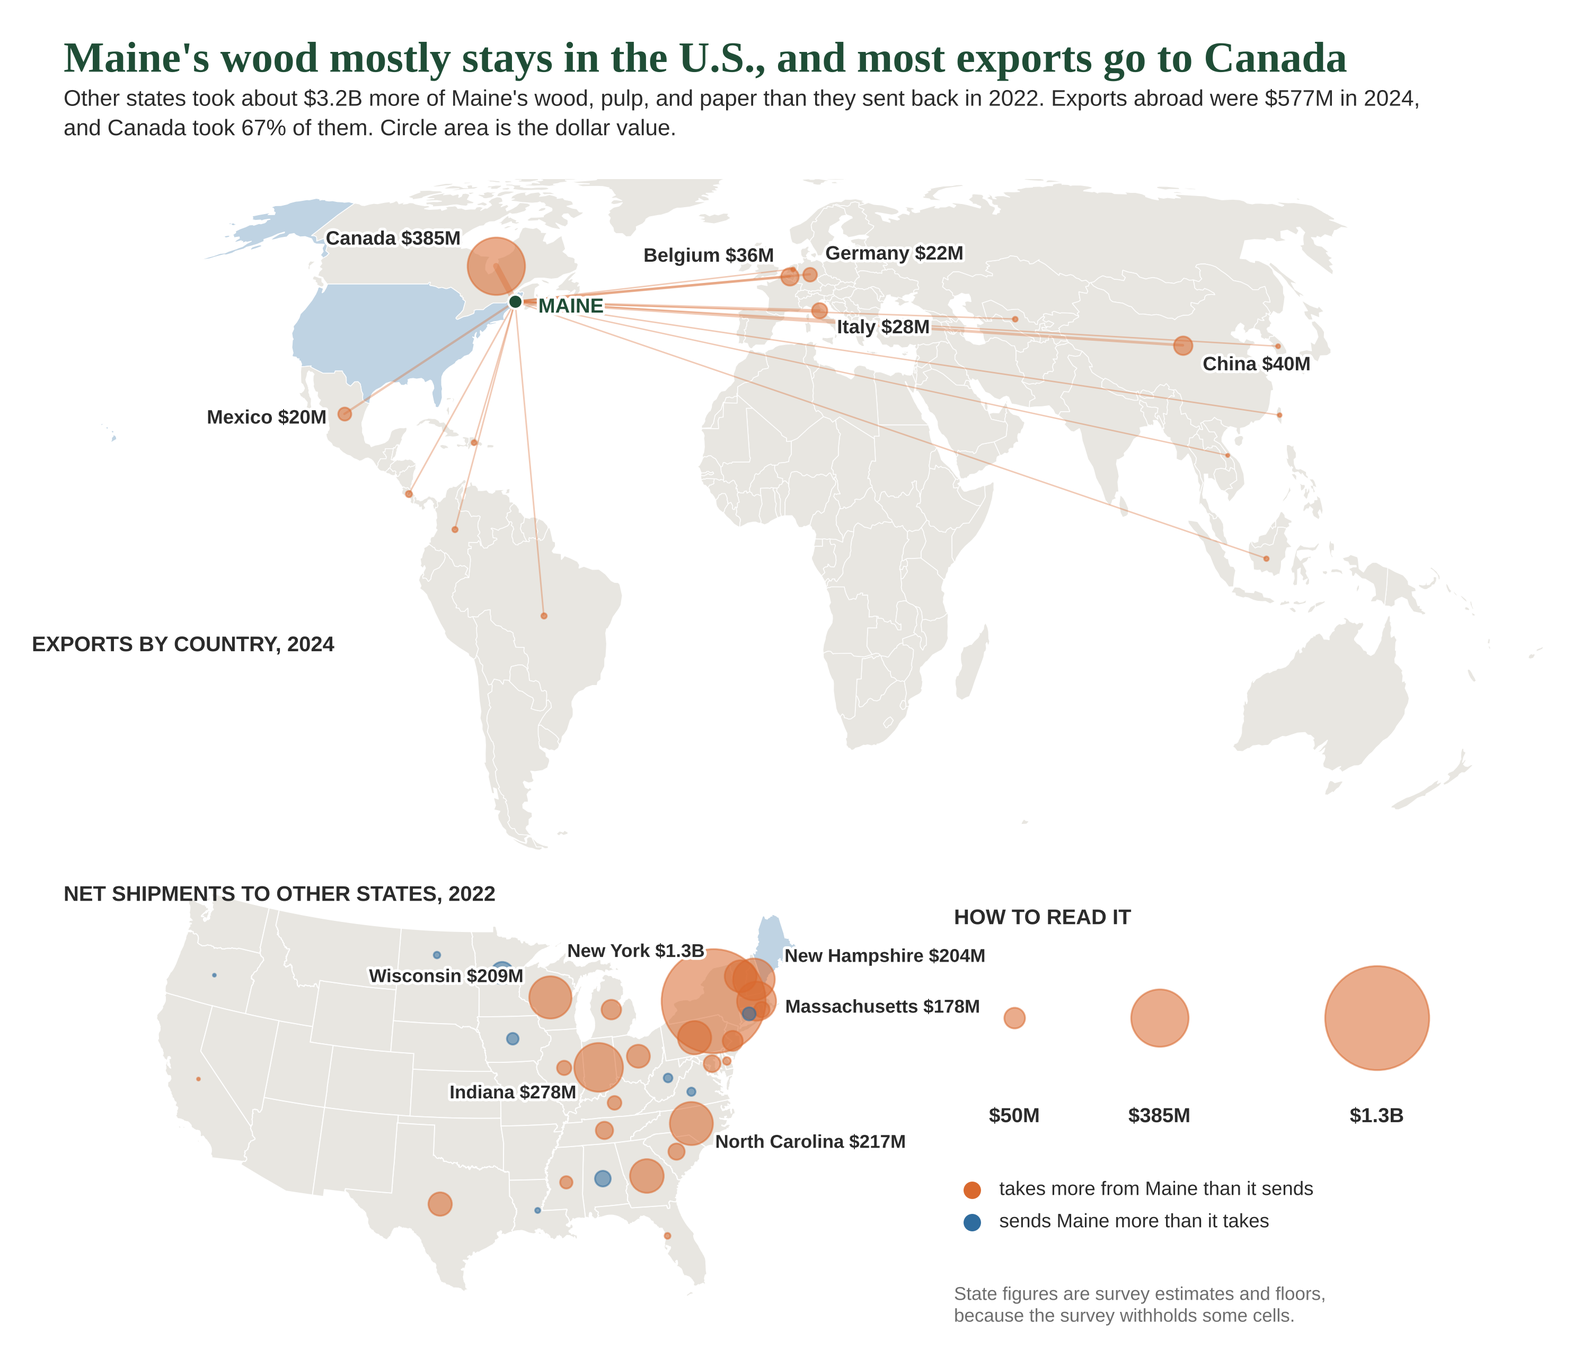
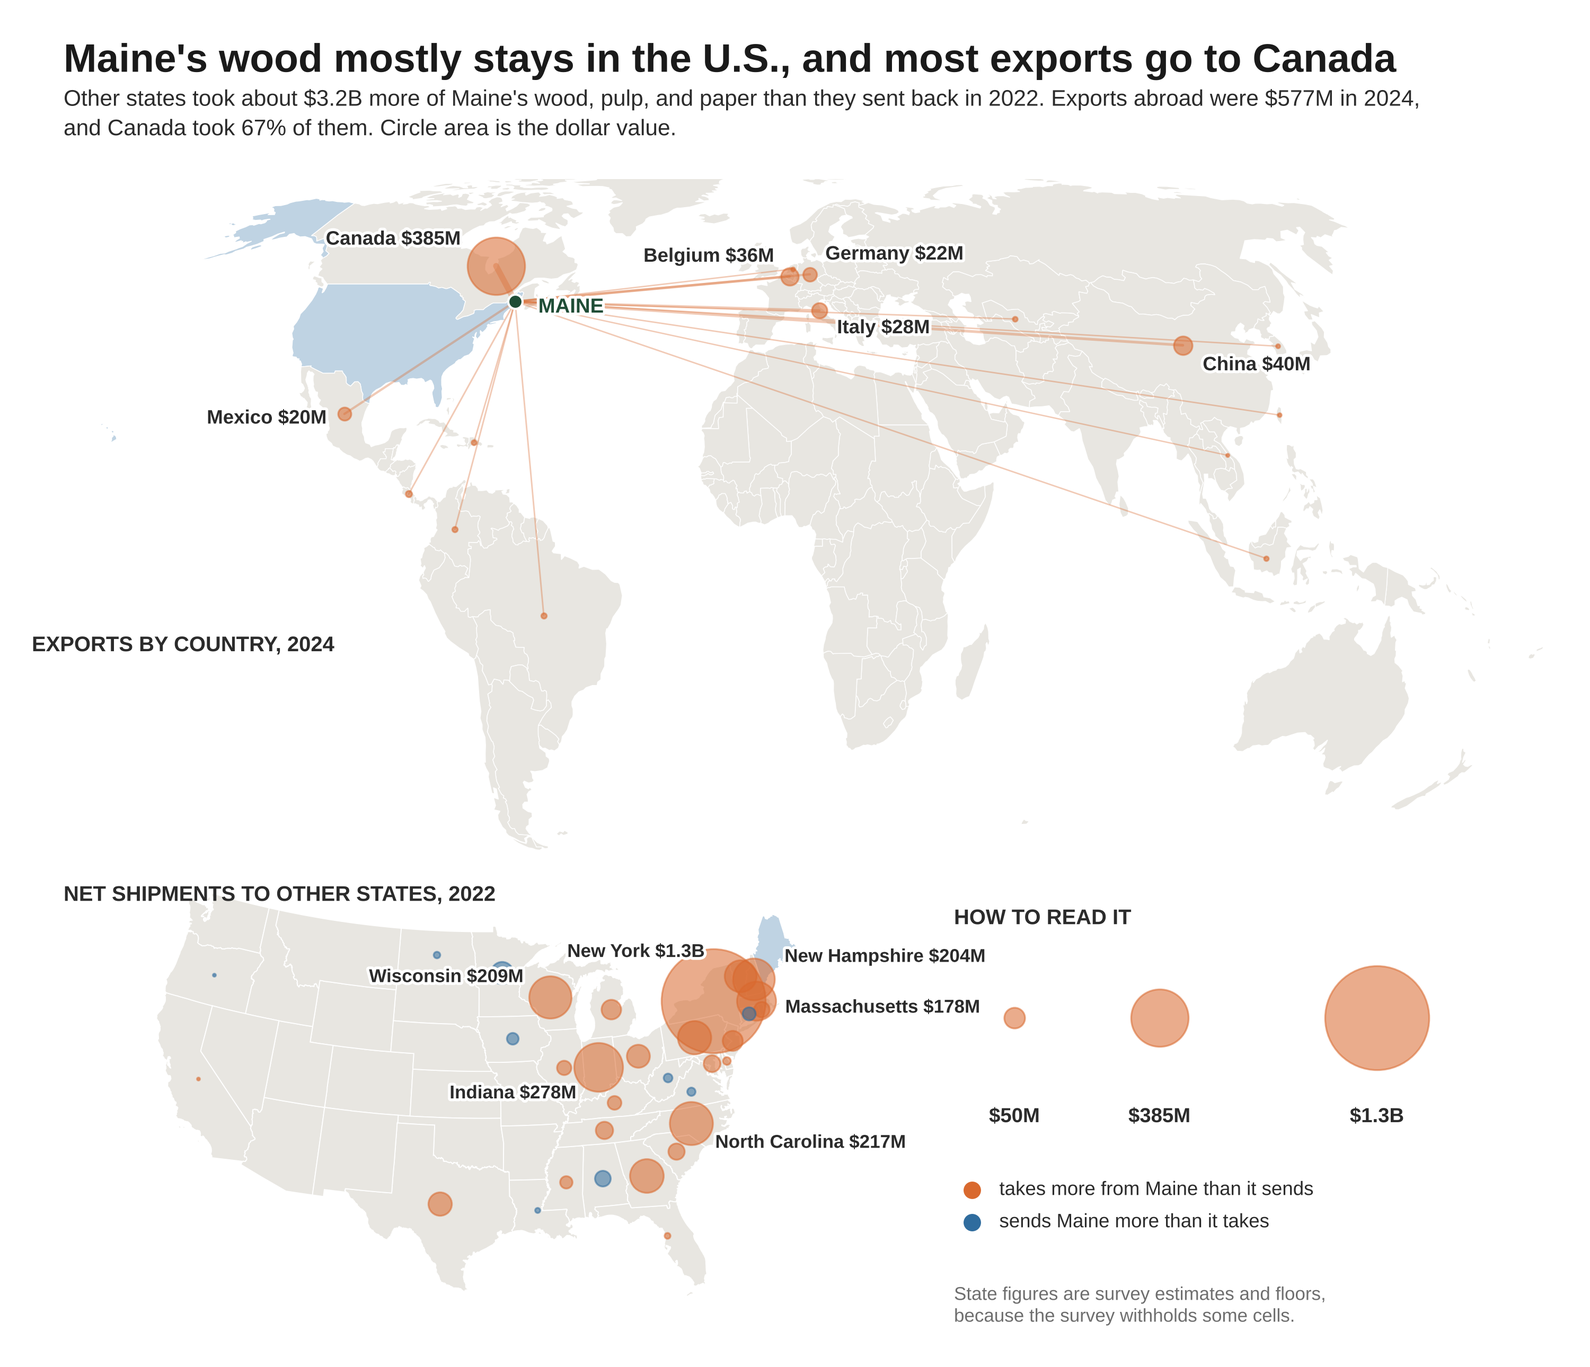
Figures restyled with a shared sans headline; leakage map in Equal Earth with pulp trade arrows scaled by tonnage
Claude-Session: https://claude.ai/code/session_013WsDVoeaXCGmdbNt2QvfhH

Changed region(s): [[0.031, 0.031, 0.899, 0.062]]

diff --git a/wood-travels/2026-11-12_follow-the-wood-leakage-map_DRAFT.py b/wood-travels/2026-11-12_follow-the-wood-leakage-map_DRAFT.py
@@ -1,9 +1,12 @@
-# Follow the wood with a leakage layer, rebuilt November 12, 2026, in Python.
+# Follow the wood with a leakage layer. Rebuilt November 12, 2026 (second pass: Equal Earth projection so
+# shapes are not stretched, pulp trade arrows scaled by tonnage, sans headline to match The Conversation's charts).
 # Shading: colors read from figure 2a of Daigneault et al. 2025 (Environ. Res. Lett. 20:114022, CC BY 4.0;
 # `2025_daigneault-erl-fig2a-leakage-layer_DATA.png`) and assigned to each Global Timber Model region and forest
 # type code on Adam Daigneault's 0.5 degree forest type grid (not in this repository; pass its CSV with X, Y, code).
-# Each code takes the most common figure color among its cells, so the shading is the published figure redrawn
-# on the model's own grid. No leakage value is computed here.
+# Each code takes the most common figure color among its cells. No leakage value is computed here.
+# Pulp arrows: UN Comtrade, U.S.-reported trade, 2024. Imports are bleached kraft pulp (HS 470321 softwood and
+# 470329 hardwood): Brazil 0.266 + 2.024 = 2.29 million metric tons, Canada 1.729 + 0.110 = 1.84 million.
+# Exports are all kraft pulp (HS 4703): 0.08 million to Brazil, 0.50 million to Canada.
 # Routes are schematic. Usage: python3 <script> <node_modules dir> <grid.csv> <out.png>
 import csv, json, sys, os, math, collections
 import numpy as np
@@ -11,6 +14,7 @@ import matplotlib
 matplotlib.use("Agg")
 import matplotlib.pyplot as plt
 from matplotlib.patches import PathPatch, FancyArrowPatch
+from matplotlib.collections import PolyCollection
 from matplotlib.path import Path
 import matplotlib.patheffects as pe
 from PIL import Image
@@ -18,8 +22,18 @@ from PIL import Image
 HERE = os.path.dirname(os.path.abspath(__file__))
 ATLAS, GRID, OUT = sys.argv[1], sys.argv[2], sys.argv[3]
 plt.rcParams["font.family"] = "Liberation Sans"
-GRN, NAV, LAND, SEA, INK, GRY = "#1F4D36", "#12355B", "#E8E6E1", "#F4F8FB", "#2B2B2B", "#6E6E6E"
-X0, X1, Y0, Y1 = -100.0, -30.0, -38.0, 54.0
+plt.rcParams["mathtext.fontset"] = "custom"; plt.rcParams["mathtext.bf"] = "Liberation Sans:bold"; plt.rcParams["mathtext.rm"] = "Liberation Sans"
+GRN, NAV, LAND, SEA, INK, GRY = "#1F4D36", "#12355B", "#E8E6E1", "#F4F8FB", "#1A1A1A", "#5F6B65"
+LON0 = -72.0
+LX0, LX1, LY0, LY1 = -124.0, -27.0, -35.0, 53.5          # frame in degrees
+
+
+def ee(lon, lat):
+    A1, A2, A3, A4 = 1.340264, -0.081106, 0.000893, 0.003796
+    lon, lat = np.asarray(lon, float), np.asarray(lat, float)
+    th = np.arcsin(math.sqrt(3) / 2 * np.sin(np.radians(lat)))
+    x = 2 * math.sqrt(3) * np.radians(lon - LON0) * np.cos(th) / (3 * (9 * A4 * th**8 + 7 * A3 * th**6 + 3 * A2 * th**2 + A1))
+    return x, A4 * th**9 + A3 * th**7 + A2 * th**3 + A1 * th
 
 
 def topo(path, obj):
@@ -44,97 +58,112 @@ def topo(path, obj):
     return res
 
 
-def add_poly(ax, rings, **kw):
+def near(r):
+    return not (r[:, 0].max() < LX0 - 25 or r[:, 0].min() > LX1 + 12 or r[:, 1].max() < LY0 - 8 or r[:, 1].min() > LY1 + 12
+                or r[:, 0].max() - r[:, 0].min() > 300)
+
+
+def path_of(rings):
     verts, codes = [], []
     for r in rings:
-        if r[:, 0].max() < X0 - 5 or r[:, 0].min() > X1 + 5 or r[:, 1].max() < Y0 - 5 or r[:, 1].min() > Y1 + 5 or r[:, 0].max() - r[:, 0].min() > 300:
+        if not near(r):
             continue
-        verts += list(map(tuple, r))
-        codes += [Path.MOVETO] + [Path.LINETO] * (len(r) - 2) + [Path.CLOSEPOLY]
-    if verts:
-        ax.add_patch(PathPatch(Path(verts, codes), **kw))
+        x, y = ee(r[:, 0], r[:, 1])
+        verts += list(zip(x, y)); codes += [Path.MOVETO] + [Path.LINETO] * (len(r) - 2) + [Path.CLOSEPOLY]
+    return Path(verts, codes) if verts else None
 
 
 # ---- leakage colors by forest type code ----
 lay = np.array(Image.open(os.path.join(HERE, "2025_daigneault-erl-fig2a-leakage-layer_DATA.png")).convert("RGB")).astype(int)
-SC, LX0 = 3.745, -177.5
-LYMX = 314.7 / SC
+SC, FX0 = 3.745, -177.5
+FYMX = 314.7 / SC
 rows = [(float(r["X"]), float(r["Y"]), int(r["code"])) for r in csv.DictReader(open(GRID))]
 votes = collections.defaultdict(collections.Counter)
-hit = 0
 for x, y, c in rows:
-    px, py = int(round((x - LX0) * SC)), int(round((LYMX - y) * SC))
+    px, py = int(round((x - FX0) * SC)), int(round((FYMX - y) * SC))
     if 0 <= px < lay.shape[1] and 0 <= py < lay.shape[0]:
         r, g, b = lay[py, px]
         if max(r, g, b) - min(r, g, b) > 95 and r > 190:      # a leakage color, not gray land, white sea or text
             votes[c][(r // 8 * 8, g // 8 * 8, b // 8 * 8)] += 1
-            hit += 1
-colr = {c: np.array(v.most_common(1)[0][0]) / 255.0 for c, v in votes.items() if sum(v.values()) >= 3}
-print("cells", len(rows), "with a figure color", hit, "codes colored", len(colr))
-
-dx = 0.499306
-nx, ny = int(round((X1 - X0) / dx)) + 2, int(round((Y1 - Y0) / dx)) + 2
-img = np.zeros((ny, nx, 4))
+def pick(v):
+    """Most saturated color among those holding at least 15% of a code's cells (drops blended edge pixels)."""
+    n = sum(v.values())
+    cand = [k for k, m in v.items() if m >= 0.15 * n] or [v.most_common(1)[0][0]]
+    return max(cand, key=lambda k: (max(k) - min(k), v[k]))
+colr = {c: np.array(pick(v)) / 255.0 for c, v in votes.items() if sum(v.values()) >= 3}
+d = 0.499306 / 2
+polys, cols = [], []
 for x, y, c in rows:
-    if c in colr and X0 - dx <= x <= X1 + dx and Y0 - dx <= y <= Y1 + dx:
-        i, j = int(round((x - X0) / dx)), int(round((Y1 - y) / dx))
-        if 0 <= i < nx and 0 <= j < ny:
-            img[j, i, :3] = colr[c]; img[j, i, 3] = 1
+    if c in colr and LX0 - 20 <= x <= LX1 + 8 and LY0 - 6 <= y <= LY1 + 8:
+        px, py = ee([x - d, x + d, x + d, x - d], [y - d, y - d, y + d, y + d])
+        polys.append(list(zip(px, py))); cols.append(colr[c])
+print("cells drawn", len(polys), "codes colored", len(colr))
 
-fig = plt.figure(figsize=(10, 10.2), dpi=300)
-ax = fig.add_axes([0.03, 0.02, 0.94, 0.855])
-ax.set_xlim(X0, X1); ax.set_ylim(Y0, Y1); ax.set_aspect(1.0); ax.set_axis_off()
-ax.add_patch(plt.Rectangle((X0, Y0), X1 - X0, Y1 - Y0, facecolor=SEA, edgecolor="none", zorder=0))
+x0, _ = ee(LX0, 10); x1, _ = ee(LX1, 10); _, y0 = ee(LON0, LY0); _, y1 = ee(LON0, LY1)
+W = 10.0; axw = 0.94; axh_in = W * axw * (y1 - y0) / (x1 - x0); H = axh_in + 1.5
+fig = plt.figure(figsize=(W, H), dpi=300)
+ax = fig.add_axes([0.03, 0.15 / H, axw, axh_in / H])
+ax.set_xlim(x0, x1); ax.set_ylim(y0, y1); ax.set_aspect("equal"); ax.set_axis_off()
+ax.add_patch(plt.Rectangle((x0, y0), x1 - x0, y1 - y0, facecolor=SEA, edgecolor="none", zorder=0))
 world = topo(f"{ATLAS}/world-atlas/countries-50m.json", "countries")
 states = topo(f"{ATLAS}/us-atlas/states-10m.json", "states")
-for name, rings in world.items():
-    add_poly(ax, rings, facecolor=LAND, edgecolor="none", zorder=1)
-ax.imshow(img, extent=[X0 - dx / 2, X0 - dx / 2 + nx * dx, Y1 + dx / 2 - ny * dx, Y1 + dx / 2], interpolation="nearest", zorder=2)
-# clip the raster to land so cells do not spill into the sea
-verts, codes = [], []
-for rings in world.values():
-    for r in rings:
-        if r[:, 0].max() < X0 - 5 or r[:, 0].min() > X1 + 5 or r[:, 1].max() < Y0 - 5 or r[:, 1].min() > Y1 + 5 or r[:, 0].max() - r[:, 0].min() > 300:
-            continue
-        verts += list(map(tuple, r)); codes += [Path.MOVETO] + [Path.LINETO] * (len(r) - 2) + [Path.CLOSEPOLY]
-ax.images[0].set_clip_path(PathPatch(Path(verts, codes), transform=ax.transData))
-for name, rings in world.items():
-    add_poly(ax, rings, facecolor="none", edgecolor="white", linewidth=0.5, zorder=3)
+land = path_of([r for rings in world.values() for r in rings])
+ax.add_patch(PathPatch(land, facecolor=LAND, edgecolor="none", zorder=1))
+pc = PolyCollection(polys, facecolors=cols, edgecolors=cols, linewidths=0.15, zorder=2)
+ax.add_collection(pc); pc.set_clip_path(PathPatch(land, transform=ax.transData))
+ax.add_patch(PathPatch(land, facecolor="none", edgecolor="white", linewidth=0.5, zorder=3))
 for name, rings in states.items():
-    add_poly(ax, rings, facecolor="none", edgecolor="white", linewidth=0.35, zorder=3)
-add_poly(ax, states["Maine"], facecolor="none", edgecolor="#0B2A1B", linewidth=1.8, zorder=5)
+    p = path_of(rings)
+    if p is not None:
+        ax.add_patch(PathPatch(p, facecolor="none", edgecolor="white", linewidth=0.35, zorder=3))
+ax.add_patch(PathPatch(path_of(states["Maine"]), facecolor="none", edgecolor="#0B2A1B", linewidth=1.8, zorder=5))
 
-# ---- routes over the ocean (schematic) ----
-def route(p0, c1, c2, p1):
-    path = Path([p0, c1, c2, p1], [Path.MOVETO, Path.CURVE4, Path.CURVE4, Path.CURVE4])
-    ax.add_patch(FancyArrowPatch(path=path, arrowstyle="-|>,head_length=9,head_width=5", color=NAV, linewidth=2.6, zorder=6))
-SJ, MAC, BR, EAST = (-66.06, 45.27), (-83.63, 32.84), (-51.7, -20.8), (-76.3, 36.9)
-route(SJ, (-60.0, 39.0), (-70.0, 27.5), (MAC[0] + 0.9, MAC[1] - 0.25))   # Saint John, down the Atlantic, in through the Georgia coast
-route(BR, (-31.0, -24.0), (-47.0, 24.0), EAST)                    # Brazil, out to the Atlantic, up to U.S. ports
+P = lambda lon, lat: tuple(float(v) for v in ee(lon, lat))
+halo = [pe.withStroke(linewidth=3, foreground="white")]
+def route(pts, lw, color=NAV, ls="-", head=(9, 5)):
+    path = Path([P(*p) for p in pts], [Path.MOVETO, Path.CURVE4, Path.CURVE4, Path.CURVE4])
+    ax.add_patch(FancyArrowPatch(path=path, arrowstyle=f"-|>,head_length={head[0]},head_width={head[1]}", color=color,
+                                 linewidth=lw, linestyle=ls, zorder=6, capstyle="round"))
+K = 6.6 / 2.29                                               # line width in points per million metric tons
+SJ, MAC, BR = (-66.06, 45.27), (-83.63, 32.84), (-51.7, -20.8)
+route([BR, (-31.0, -22.0), (-50.0, 22.0), (-78.9, 33.4)], K * 2.29, head=(11, 7))          # Brazil to U.S. ports
+route([(-79.5, 49.5), (-83.5, 47.5), (-86.5, 44.0), (-86.0, 40.3)], K * 1.84, head=(10, 6))  # Canada to U.S. mills
+route([SJ, (-60.0, 39.5), (-70.0, 28.0), (MAC[0] + 0.9, MAC[1] - 0.3)], 1.5, ls=(0, (4, 2.5)), head=(7, 4))
 for p in (SJ, MAC, BR):
-    ax.scatter(*p, s=70, c=INK, edgecolors="white", linewidths=0.8, zorder=7)
+    ax.scatter(*P(*p), s=60, c=INK, edgecolors="white", linewidths=0.8, zorder=7)
 
 box = dict(boxstyle="round,pad=0.35", facecolor="white", edgecolor=INK, linewidth=0.6)
-def lab(x, y, t, ha="center", va="center"):
-    ax.text(x, y, t, ha=ha, va=va, fontsize=10.6, color=INK, bbox=box, zorder=8, linespacing=1.2)
-lab(-63.5, 49.6, "Saint John, N.B.\npulp mill", ha="left")
-lab(-91.5, 28.3, "Macon, Ga.\nSaint John pulp\nbecomes tissue")
-ax.plot([-55.5, -68.4], [36.6, 44.7], color=GRY, linewidth=0.7, zorder=6)
-lab(-47.5, 32.0, "Maine logs cross the border to Quebec\nsawmills. In 2023, about 2 million tons of\nMaine's harvest left the state unprocessed,\nwhile 2.7 million tons came in from\nneighboring states and provinces")
-lab(-47.0, -31.5, "Brazil supplies about 82% of\nthe hardwood pulp the U.S. imports,\nmostly from eucalyptus plantations")
-ax.text(-69.2, 48.6, "MAINE", ha="center", va="center", fontsize=11, fontweight="bold", color=GRN, zorder=8,
-        path_effects=[pe.withStroke(linewidth=3, foreground="white")])
+def lab(lon, lat, t, ha="center", va="center", fs=10.4):
+    ax.text(*P(lon, lat), t, ha=ha, va=va, fontsize=fs, color=INK, bbox=box, zorder=8, linespacing=1.2)
+def tag(lon, lat, big, small, ha="center"):
+    ax.text(*P(lon, lat), r"$\bf{" + big.replace(" ", r"\ ") + "}$\n" + small, ha=ha, va="center", fontsize=10.4, color=INK, bbox=box, zorder=8, linespacing=1.25)
+tag(-40.5, 13.0, "2.3M metric tons of pulp", "from Brazil to the U.S. in 2024;\n0.1M went the other way")
+tag(-103.0, 47.0, "1.8M metric tons of pulp", "from Canada to the U.S. in 2024;\n0.5M went the other way")
+lab(-62.2, 49.4, "Saint John, N.B.\npulp mill", ha="left")
+lab(-97.5, 27.0, "Macon, Ga.\nSaint John pulp\nbecomes tissue")
+ax.plot(*zip(P(-56.0, 36.4), P(-68.4, 44.7)), color=GRY, linewidth=0.7, zorder=6)
+lab(-46.5, 32.0, "Maine logs cross the border to Quebec\nsawmills. In 2023, about 2 million tons of\nMaine's harvest left the state unprocessed,\nwhile 2.7 million tons came in from\nneighboring states and provinces")
+lab(-44.5, -31.2, "Brazil supplies about 82% of\nthe hardwood pulp the U.S. imports,\nmostly from eucalyptus plantations")
+ax.text(*P(-69.2, 48.7), "MAINE", ha="center", va="center", fontsize=11, fontweight="bold", color=GRN, zorder=8, path_effects=halo)
 
 # ---- legend ----
 bar = np.array(Image.open(os.path.join(HERE, "2025_daigneault-erl-fig2-legend-bar_DATA.png")).convert("RGB"))
-ax.imshow(bar, extent=[-96.5, -94.6, -24.0, -6.0], zorder=8, aspect="auto")
-ax.set_xlim(X0, X1); ax.set_ylim(Y0, Y1)
-for yv, t in ((-6.6, "50% lost"), (-15.0, "0%"), (-23.4, "−50% (a net gain)")):
-    ax.text(-93.9, yv, t, ha="left", va="center", fontsize=9.8, color=INK, zorder=8)
-ax.text(-96.5, -3.6, "Carbon gain lost\nto leakage", ha="left", va="bottom", fontsize=10.4, fontweight="bold", color=INK, zorder=8, linespacing=1.1)
+bx0, by0 = P(-119.0, -22.0); bx1, by1 = P(-116.9, -4.0)
+ax.imshow(bar, extent=[bx0, bx0 + (bx1 - P(-119.0, -4.0)[0]) , by0, by1], zorder=8, aspect="auto")
+ax.set_xlim(x0, x1); ax.set_ylim(y0, y1)
+tx = bx0 + (bx1 - P(-119.0, -4.0)[0]) * 1.5
+for latv, t in ((-4.6, "50% lost"), (-13.0, "0%"), (-21.4, "−50% (a net gain)")):
+    ax.text(tx, P(-119.0, latv)[1], t, ha="left", va="center", fontsize=9.8, color=INK, zorder=8)
+ax.text(bx0, P(-119.0, -1.6)[1], "Carbon gain lost\nto leakage", ha="left", va="bottom", fontsize=10.6, fontweight="bold", color=INK, zorder=8, linespacing=1.1)
+ky = P(-119.0, -27.0)[1]
+ax.plot([bx0, bx0 + 0.07], [ky, ky], color=NAV, linewidth=K * 2.0, solid_capstyle="round", zorder=8)
+ax.text(bx0 + 0.09, ky, "Pulp trade; width shows tons", ha="left", va="center", fontsize=9.8, color=INK, zorder=8)
+ky2 = P(-119.0, -30.5)[1]
+ax.plot([bx0, bx0 + 0.07], [ky2, ky2], color=NAV, linewidth=1.5, linestyle=(0, (4, 2.5)), zorder=8)
+ax.text(bx0 + 0.09, ky2, "One company's route", ha="left", va="center", fontsize=9.8, color=INK, zorder=8)
 
-fig.text(0.03, 0.955, "The wood behind a paper towel now travels farther", fontsize=24, fontweight="bold", color=GRN, family="Liberation Serif", va="center")
-fig.text(0.03, 0.905, "When a mill closes, Americans keep buying paper and the fiber comes from farther away. Shading shows how much\nof the carbon gained by delaying harvests in a region is lost as cutting shifts somewhere else.",
-         fontsize=11.6, color=INK, va="center", linespacing=1.3)
+fig.text(0.03, 1 - 0.42 / H, "The wood behind a paper towel now travels farther", fontsize=23, fontweight="bold", color=INK, va="center")
+fig.text(0.03, 1 - 0.98 / H, "When a mill closes, Americans keep buying paper and the fiber comes from farther away. Shading shows how much\nof the carbon gained by delaying harvests in a region is lost as cutting shifts somewhere else.",
+         fontsize=11.6, color="#444444", va="center", linespacing=1.3)
 fig.savefig(OUT, dpi=300, facecolor="white")
-print("saved", OUT)
+print("saved", OUT, round(W, 2), round(H, 2))

diff --git a/wood-travels/2026-11-12_how-maines-trees-are-used_DRAFT.py b/wood-travels/2026-11-12_how-maines-trees-are-used_DRAFT.py
@@ -14,7 +14,7 @@ PAL = {"Sawlogs": "#1F4D33", "Pulpwood": "#3B6E8F", "Biomass Chips": "#C8873F", 
 NAME = {"Sawlogs": "Sawlogs", "Pulpwood": "Pulpwood", "Biomass Chips": "Biomass chips", "Firewood/Pellets": "Firewood & pellets"}
 USE = {"Sawlogs": "lumber, studs, veneer, pallets", "Pulpwood": "paper, pulp, tissue, packaging",
        "Biomass Chips": "electricity and heat at mills", "Firewood/Pellets": "home heating"}
-BG, INK, MUT, HEAD = "#FBFAF6", "#1B2A20", "#5B6B60", "#163B27"
+BG, INK, MUT, HEAD = "#FFFFFF", "#1A1A1A", "#5B6B60", "#1A1A1A"
 rows = [r for r in csv.DictReader(open(os.path.join(HERE, "2009-2023_maine-wood-flow-by-product-mfs_DATA.csv"))) if r["product"] != "Total"]
 years = sorted({int(r["year"]) for r in rows})
 H = {p: np.array([next(float(r["harvested_gt"]) for r in rows if int(r["year"]) == y and r["product"] == p) for y in years]) / 1e6 for p in PAL}
@@ -28,12 +28,12 @@ drop = round(100 * (1 - t23 / t11))
 sh = lambda p, y: 100 * H[p][years.index(y)] / tot[years.index(y)]
 
 fig = plt.figure(figsize=(13, 6.3), dpi=300, facecolor=BG)
-fig.text(0.027, 0.925, "A fifth of Maine's harvest leaves the state as raw wood", fontsize=26, fontweight="bold", color=HEAD, family="Liberation Serif", va="center")
+fig.text(0.027, 0.925, "A fifth of Maine's harvest leaves the state as raw wood", fontsize=24, fontweight="bold", color=HEAD, va="center")
 fig.text(0.027, 0.862, f"Maine landowners harvested {t23:.1f} million green tons of wood in 2023, down {drop}% from {t11:.1f} million in 2011, and pulpwood's share fell from {sh('Pulpwood', 2011):.0f}% to {sh('Pulpwood', 2023):.0f}%.",
-         fontsize=12.6, color="#3A4A3F", va="center")
+         fontsize=12.6, color="#444444", va="center")
 
 # ---- left: the 2023 harvest, kept and exported ----
-a = fig.add_axes([0.205, 0.07, 0.355, 0.63], facecolor="white")
+a = fig.add_axes([0.205, 0.07, 0.355, 0.63], facecolor="#FAFAF8")
 order = ["Firewood/Pellets", "Biomass Chips", "Pulpwood", "Sawlogs"]
 for i, p in enumerate(order):
     ins, ex = float(r23[p]["instate_gt"]) / 1e6, float(r23[p]["exported_gt"]) / 1e6
@@ -49,7 +49,7 @@ a.set_xticklabels(["0", "1", "2", "3", "4 million\ngreen tons"], fontsize=10, co
 a.grid(axis="x", color="#DED8C8", linewidth=0.5); a.set_axisbelow(True)
 for s in a.spines.values(): s.set_visible(False)
 a.tick_params(length=0)
-fig.text(0.027, 0.79, "The 2023 harvest: 10.0 million green tons", fontsize=16, fontweight="bold", color=HEAD, family="Liberation Serif", va="center")
+fig.text(0.027, 0.79, "The 2023 harvest: 10.0 million green tons", fontsize=16, fontweight="bold", color=HEAD, va="center")
 a.barh([-9], [1], color=PAL["Sawlogs"], label="Processed by Maine mills"); a.barh([-9], [1], color=PAL["Sawlogs"], alpha=0.38, label="Exported unprocessed")
 a.legend(loc="lower left", bbox_to_anchor=(-0.02, 0.985), ncol=2, frameon=False, fontsize=9.6, handlelength=1, handleheight=1, columnspacing=1.2)
 
@@ -74,6 +74,6 @@ for k in range(1, len(lab)):
     lab[k][0] = max(lab[k][0], lab[k - 1][0] + 0.85)
 for y, p, v in lab:
     b.text(2023.4, y, f"{NAME[p]} {v:.1f} M", fontsize=11.2, fontweight="bold", color=PAL[p], va="center", clip_on=False)
-fig.text(0.60, 0.79, "Tons harvested by product, 2009 to 2023", fontsize=16, fontweight="bold", color=HEAD, family="Liberation Serif", va="center")
+fig.text(0.60, 0.79, "Tons harvested by product, 2009 to 2023", fontsize=16, fontweight="bold", color=HEAD, va="center")
 fig.savefig(sys.argv[1], dpi=300, facecolor=BG)
 print("saved", round(t11, 2), round(t23, 2), drop, [round(H[p][-1], 2) for p in stack])

diff --git a/wood-travels/2026-11-10_maine-mill-towns-quebec-mills-map_DRAFT.py b/wood-travels/2026-11-10_maine-mill-towns-quebec-mills-map_DRAFT.py
@@ -220,8 +220,8 @@ leg = ax.legend(handles=handles, loc="lower right", bbox_to_anchor=(0.995, 0.012
                 edgecolor=INK, fancybox=True, borderpad=0.7, labelspacing=0.55, handletextpad=0.5)
 leg.get_frame().set_linewidth(0.7); leg.set_zorder(12)
 
-fig.text(0.126, 0.955, "When a pulp mill closes, sawmills feel it too", fontfamily="Liberation Serif", fontweight="bold", fontsize=21,
-         color=GRN, ha="left", va="center")
+fig.text(0.126, 0.955, "When a pulp mill closes, sawmills feel it too", fontweight="bold", fontsize=20,
+         color="#1A1A1A", ha="left", va="center")
 fig.text(0.126, 0.899, "Sawmills sell their chips and sawdust to pulp mills, so each closure reaches well beyond the mill town.\n"
          "Seven Maine paper mills have closed since 2008, and one in New Brunswick was idled in 2026.",
          fontsize=10.6, color=INK, ha="left", va="center", linespacing=1.3)

diff --git a/wood-travels/2026-11-11_maine-wood-exports-world-and-us-map_DRAFT.py b/wood-travels/2026-11-11_maine-wood-exports-world-and-us-map_DRAFT.py
@@ -107,8 +107,7 @@ MAINE = (-69.2, 45.3)
 
 fig = plt.figure(figsize=(10, 8.6), dpi=300)
 fig.patch.set_facecolor("white")
-fig.text(0.04, 0.955, "Maine's wood mostly stays in the U.S., and most exports go to Canada", fontfamily="Liberation Serif",
-         fontweight="bold", fontsize=19.5, color=GRN, ha="left", va="center")
+fig.text(0.04, 0.955, "Maine's wood mostly stays in the U.S., and most exports go to Canada", fontweight="bold", fontsize=18, color="#1A1A1A", ha="left", va="center")
 fig.text(0.04, 0.917, f"Other states took about {usd(net_pos)} more of Maine's wood, pulp, and paper than they sent back in 2022. "
          f"Exports abroad were {usd(total_exp)} in 2024,\nand Canada took 67% of them. Circle area is the dollar value.",
          fontsize=10.2, color=INK, ha="left", va="center", linespacing=1.3)
